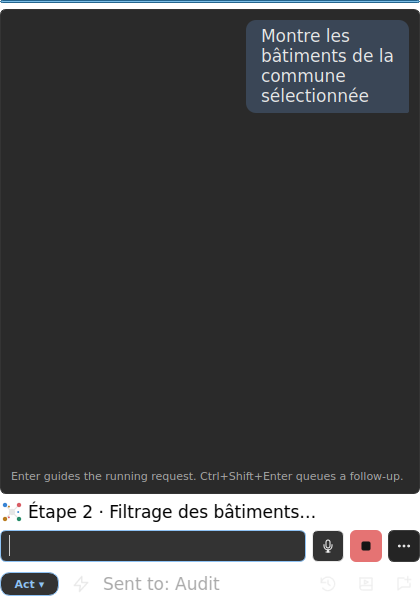
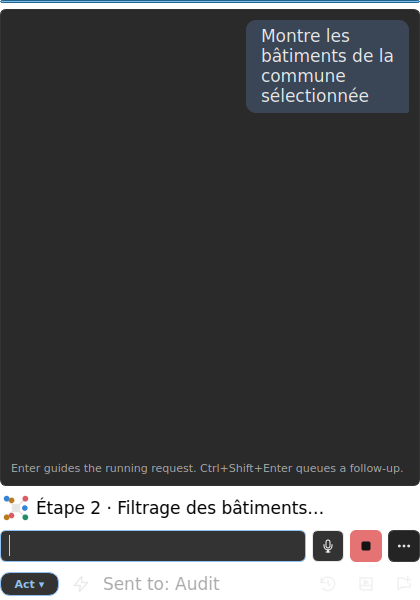
docs(agent): document action-specific network animations

Changed region(s): [[0.0, 0.75, 1.0, 0.87]]

diff --git a/docs/design/agent-identity/README.md b/docs/design/agent-identity/README.md
@@ -1,6 +1,6 @@
 # Identité du réseau pulsé pour FilterMate et son agent
 
-Le réseau pulsé est la direction retenue par l’utilisateur. L’agent reprend ce symbole dans son icône compacte et dans son indicateur d’activité animé. Pour le plugin, la variante proposée renforce le contraste du centre et simplifie les détails aux tailles des barres d’outils.
+Le réseau pulsé est la direction retenue par l’utilisateur pour l’accueil et l’indicateur d’activité de l’agent. Le titre de l’onglet AGENT conserve son ancienne icône de conversation. Pour le plugin, la variante proposée renforce le contraste du centre et simplifie les détails aux tailles des barres d’outils.
 
 ![Icône intégrée et propositions du réseau pulsé](identity-proposals.png)
 
@@ -8,10 +8,27 @@ Le réseau pulsé est la direction retenue par l’utilisateur. L’agent repren
 
 - [Icône claire](agent-light.svg) et [icône sombre](agent-dark.svg), dessinées sur une grille de 24 unités.
 - [Animation claire](agent-loader-light.svg) et [animation sombre](agent-loader-dark.svg).
-- Quatre branches colorées, centre suivant le thème, onde de deux secondes et orbite de huit secondes.
+- Quatre branches colorées, centre suivant le thème et points en orbite agrandis. Le loader occupe 32 pixels.
 - Animation limitée à 20 images par seconde dans le composant Qt, active pendant une requête, arrêtée lorsque le panneau est masqué ou inactif. Elle reprend si le panneau redevient visible pendant le travail.
 
-L’icône de bienvenue et les en-têtes utilisent le rendu partagé de `ui/styles/mockup_design.py`. Le composant `ui/widgets/agent_activity.py` possède son propre moteur SVG ; les animations ne sont pas placées dans le cache global des icônes.
+Le rendu partagé de `ui/styles/mockup_design.py` distingue l’ancienne icône de titre `agent` du réseau `agent_network` utilisé dans l’accueil. Les icônes de titre sont conservées en [clair](agent-tab-light.svg) et [sombre](agent-tab-dark.svg). Le composant `ui/widgets/agent_activity.py` possède son propre moteur SVG ; les animations ne sont pas placées dans le cache global des icônes.
+
+## Animation selon les actions
+
+La vitesse et l’affichage suivent les événements de la conversation et des outils. Les changements de phase viennent des callbacks du contrôleur, sans interpréter les textes traduits. Envoyer plusieurs fragments de texte dans une même phase ne redémarre pas son animation.
+
+| Activité | Affichage | Tour complet |
+|---|---|---|
+| Préparation de réponse | Trois points et pulsation lente | 5,4 s |
+| Lecture par un outil | Deux points plus grands | 3,6 s |
+| Traitement ou modification | Trois grands points et pulsation plus vive | 2,1 s |
+| Appel d’un outil extérieur | Trois points et rythme intermédiaire | 2,8 s |
+| Réponse reçue progressivement | Un point bleu, plus discret | 4,2 s |
+| Attente de décision | Centre ambre avec pause, pulsation calme | Pas d’orbite |
+| Nouvelle tentative | Un point ambre, rotation lente | 6,4 s |
+| Arrêt demandé | Centre ambre avec carré d’arrêt | Pas d’orbite |
+
+[Comparer les animations](agent-activity-phases.svg) et [aperçu des états](agent-activity-phases.png). Une attente de confirmation retrouve ensuite sa phase précédente ; un arrêt ou un changement de conversation conserve son nouvel état. Les recettes utilisent le même indicateur lorsqu’elles exécutent leurs outils.
 
 Les fichiers fournis comme références utilisent `animate` et `animateMotion`. QtSvg les charge comme images mais ne reconnaît pas leurs animations dans les environnements vérifiés. Les variantes utilisent `animateTransform`, pris en charge par Qt5 et Qt6. Cette adaptation conserve la pulsation et les orbites sans ajouter de navigateur embarqué. [Prise en charge SVG par Qt](https://doc.qt.io/qt-6/topics-vectorimageformats.html).
 
@@ -31,4 +48,4 @@ L’icône principale `icon.png` et sa copie `icons/icon.png` restent inchangée
 
 Les rendus et le cycle de vie du composant ont été vérifiés dans QGIS 3.44.15 avec Qt 5.15.18 et QGIS 4.3.0 Master avec Qt 6.10.2. Les contrôles couvrent l’animation réelle des images, l’arrêt lorsque le parent est masqué, la reprise, les thèmes et les tailles de l’icône. Les tests automatisés vérifient aussi que deux indicateurs ne partagent pas leur moteur et que l’absence de QtSvg laisse le panneau utilisable.
 
-Résultats : [Qt5](validation-qt5.json), [Qt6](validation-qt6.json). Les références originales sont conservées dans [favicon-reference.svg](favicon-reference.svg) et [logo-reference.svg](logo-reference.svg).
+Les 1 165 tests ciblés des contrôleurs et de l’interface passent après cette évolution. Résultats des rendus : [Qt5](validation-qt5.json), [Qt6](validation-qt6.json). Les références originales sont conservées dans [favicon-reference.svg](favicon-reference.svg) et [logo-reference.svg](logo-reference.svg).

diff --git a/docs/audits/2026-11-27/README.md b/docs/audits/2026-11-27/README.md
@@ -181,7 +181,7 @@ Proposition : un registre de capacités décrit pour chaque action son propriét
 
 ## États de travail et ergonomie de l’agent
 
-La barre actuelle est indéterminée, et les étapes d’outils sont suivies du statut générique Thinking. L’animation ajoutée apporte une identité et un signal d’activité. Elle ne sépare pas encore les phases de travail.
+À la base auditée, la barre est indéterminée et les étapes d’outils sont suivies du statut générique Thinking. La livraison complémentaire ajoute un réseau animé de 32 pixels, avec points mobiles agrandis. Son rythme et son apparence distinguent préparation, lecture, traitement, appel extérieur, réponse progressive, attente de décision, nouvelle tentative et arrêt. L’ancienne icône du titre AGENT est conservée.
 
 | État proposé | Présentation | Action disponible |
 |---|---|---|
@@ -194,11 +194,11 @@ La barre actuelle est indéterminée, et les étapes d’outils sont suivies du 
 | Interrompu après des effets | Étapes conservées et prochaine étape possible | Continuer, annuler les effets disponibles |
 | Terminé | Résultats, avertissements, fichiers et sauvegarde | Explorer, comparer, exporter, continuer |
 
-Créer des événements d’activité structurés dans le moteur pour alimenter ces états. Les phases décrivent des signaux observables ; le texte interne de réflexion du modèle ne constitue pas un indicateur de progression. Un pourcentage est pertinent lorsque le traitement fournit un total, sinon afficher l’étape et le temps écoulé.
+Les callbacks actuels du contrôleur alimentent les états visuels livrés. Des événements d’activité structurés dans le moteur permettraient de compléter les durées et les progrès des sous-traitements. Les phases décrivent des signaux observables ; le texte interne de réflexion du modèle ne constitue pas un indicateur de progression. Un pourcentage est pertinent lorsque le traitement fournit un total, sinon afficher l’étape et le temps écoulé.
 
 Le bouton Stop doit rester identifiable quand la saisie contient du texte : aujourd’hui, ce bouton devient un envoi Push ou Queue et Échap demeure le raccourci d’arrêt. Une action d’arrêt dédiée réduit cette ambiguïté. La file doit montrer le mode de chaque message et permettre sa modification avant départ.
 
-Le loader retenu reprend le réseau pulsé : quatre branches, un centre contrasté, une onde lente et trois particules en orbite. Il est limité à 20 images par seconde et son document animé est remplacé par un document statique lorsque le panneau disparaît ou que la requête se termine.
+Le loader retenu reprend le réseau pulsé : quatre branches, un centre contrasté, une onde et des particules en orbite. Les phases modifient leur nombre, leur taille, leur vitesse et les symboles du centre. Il est limité à 20 images par seconde et son document animé est remplacé par un document statique lorsque le panneau disparaît ou que la requête se termine.
 
 ## Bilan des skills
 
@@ -262,7 +262,7 @@ Le moteur de conversation indépendant de Qt, les adaptateurs, les tâches sur s
 | 5 | Tables, propriétés et panneaux QGIS | Chaque capacité a une entrée stable, une disponibilité et un résultat vérifié |
 | 6 | Adaptateurs de plugins et nouveaux skills | Scénarios réels validés sur les versions des extensions prises en charge |
 
-L’identité animée de l’agent est livrée séparément dans le commit `7dde44e96`. Elle fournit le composant visuel du lot 4 ; les événements de phase et les autres évolutions de ce lot restent à développer.
+L’identité animée de l’agent est livrée séparément à partir du commit `7dde44e96`, puis agrandie et reliée aux phases des actions dans `6dfbc42d9`. Ce second commit restaure aussi l’ancienne icône du titre. Le lot 4 conserve les évolutions de durée, de progression, de file et d’arrêt dédié à développer.
 
 ## Validations et limites
 
@@ -273,6 +273,7 @@ L’identité animée de l’agent est livrée séparément dans le commit `7dde
 | Parcours étendu agent, adaptateurs, contrôleurs et extensions | 5 306 réussis et 11 ignorés avant interruption ; exécution partielle |
 | Contrôleurs et extensions relancés séparément | 1 503 réussis |
 | Interface et identité de l’agent | 76 réussis, dont cycle de vie de l’animation |
+| Phases du loader et contrôleurs après agrandissement | 1 165 réussis, dont attente, interruption, restauration et changement de conversation |
 | Banc hors ligne | 173 sur 173 ; aucun appel à un modèle réel |
 | Export des skills | Vérification de synchronisation réussie |
 | QGIS réel, stockage et Processing | Scénarios existants réussis sur QGIS 3.44.15 |
